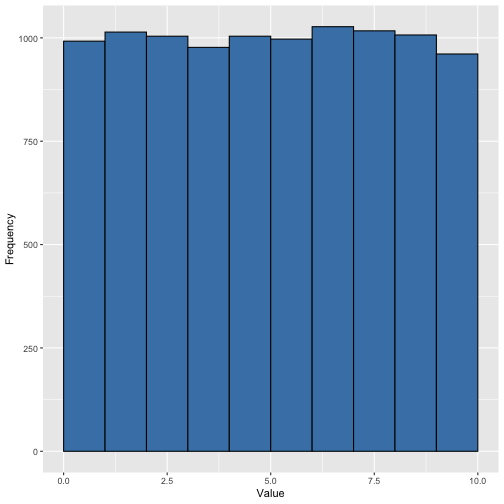
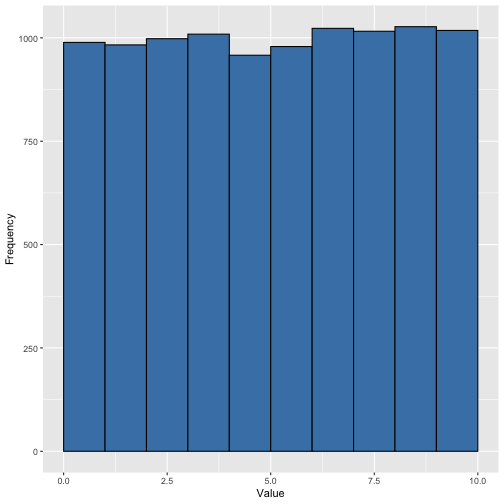
change in simulation slides

Changed region(s): [[0.119, 0.0595, 0.625, 0.119], [0.7143, 0.0298, 0.9524, 0.119], [0.625, 0.0298, 0.7143, 0.0595]]

diff --git a/week01/Lab-02c-simulation.html b/week01/Lab-02c-simulation.html
@@ -190,7 +190,7 @@ pnorm(1600,vol_mean, vol_sd)-pnorm(1300,vol_mean, vol_sd)
 
 ---
 
-###  Distribution of Mean Values from 1000 Simulations
+###  Distribution of Mean Values from 5000 Simulations
 
 
 ```r
